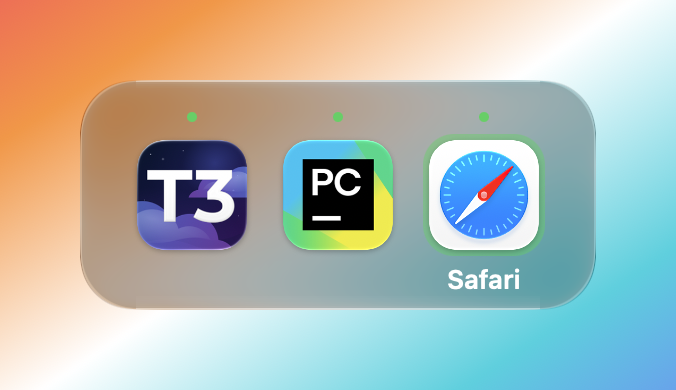
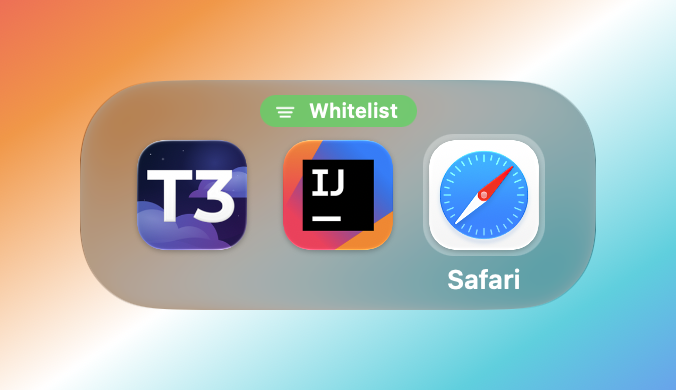
feat(app-switcher): let liquid glass draw the panel and mark the filter with a capsule

diff --git a/Sources/MacUtilities/Features/AppSwitcher/SwitcherPanel.swift b/Sources/MacUtilities/Features/AppSwitcher/SwitcherPanel.swift
@@ -54,13 +54,11 @@ final class SwitcherPanel: NSPanel {
         let layout = buildLayout()
 
         for (cell, app) in zip(cells, state.apps) {
-            cell.icon.alphaValue = getIconAlpha(app: app)
-            cell.dot.isHidden = !state.whitelisted.contains(app.bundleIdentifier ?? "")
+            cell.showStatus(app: app, whitelisted: isWhitelisted(app), isFiltered: state.isFiltered)
         }
 
         nameLabel.stringValue = getSelectedName()
         nameLabel.frame = getNameFrame(layout: layout)
-        highlight.layer?.backgroundColor = getHighlightColor().cgColor
 
         NSAnimationContext.runAnimationGroup { context in
             context.duration = 0.12
@@ -116,18 +114,17 @@ final class SwitcherPanel: NSPanel {
     private func buildContent() {
         let layout = buildLayout()
         let container = NSView(frame: NSRect(origin: .zero, size: layout.contentSize))
-        let rim = RimView(frame: container.bounds)
 
         // Icons draw as aqua like my-dock's tiles, so system images keep their light variants on the dark glass.
         container.appearance = NSAppearance(named: .aqua)
-        rim.autoresizingMask = [.width, .height]
         highlight = buildHighlight()
         nameLabel = buildNameLabel(text: getSelectedName())
         cells = buildCells(layout: layout)
 
-        container.addSubview(buildDimmingView(size: layout.contentSize))
-        container.addSubview(rim)
         container.addSubview(highlight)
+        if state.isFiltered {
+            container.addSubview(buildWhitelistBadge(size: layout.contentSize))
+        }
         for cell in cells {
             container.addSubview(cell)
         }
@@ -150,8 +147,9 @@ final class SwitcherPanel: NSPanel {
         var cells: [IconCellView] = []
 
         for (index, app) in state.apps.enumerated() {
-            let cell = IconCellView(app: app, whitelisted: state.whitelisted.contains(app.bundleIdentifier ?? ""))
+            let cell = IconCellView(app: app)
 
+            cell.showStatus(app: app, whitelisted: isWhitelisted(app), isFiltered: state.isFiltered)
             cell.index = index
             cell.frame = layout.cellFrames[index]
             cell.onClick = { [unowned self] index in self.onCellClicked(index) }
@@ -179,6 +177,10 @@ final class SwitcherPanel: NSPanel {
 
     private func buildLayout() -> SwitcherLayout {
         return SwitcherLayout(appCount: state.apps.count, iconsPerRow: state.iconsPerRow)
+    }
+
+    private func isWhitelisted(_ app: NSRunningApplication) -> Bool {
+        return state.whitelisted.contains(app.bundleIdentifier ?? "")
     }
 
     private func getSelectedName() -> String {
@@ -223,7 +225,7 @@ final class SwitcherPanel: NSPanel {
 
         highlight.wantsLayer = true
         highlight.layer?.cornerRadius = highlightCornerRadius
-        highlight.layer?.backgroundColor = getHighlightColor().cgColor
+        highlight.layer?.backgroundColor = highlightColor.cgColor
 
         return highlight
     }
@@ -233,23 +235,24 @@ final class SwitcherPanel: NSPanel {
 
         glass.style = .clear
         glass.cornerRadius = panelCornerRadius
+        glass.tintColor = panelTintColor
 
         return glass
     }
 
-    private func buildDimmingView(size: NSSize) -> NSView {
-        let dimming = NSView(frame: NSRect(origin: .zero, size: size).insetBy(dx: 1, dy: 1))
+    /// Centered in the band above the top row's icons, following the top edge as the panel resizes.
+    private func buildWhitelistBadge(size: NSSize) -> WhitelistBadgeView {
+        let badge = WhitelistBadgeView()
+        let badgeSize = badge.frame.size
 
-        dimming.wantsLayer = true
-        dimming.layer?.cornerRadius = panelCornerRadius - 1
-        dimming.layer?.backgroundColor = panelDimmingColor.cgColor
-        dimming.autoresizingMask = [.width, .height]
+        badge.frame = alignToPixels(NSRect(
+            x: (size.width - badgeSize.width) / 2,
+            y: size.height - verticalPadding - nameBandHeight / 2 - badgeSize.height / 2,
+            width: badgeSize.width,
+            height: badgeSize.height
+        ))
+        badge.autoresizingMask = [.minXMargin, .maxXMargin, .minYMargin]
 
-        return dimming
-    }
-
-    private func getHighlightColor() -> NSColor {
-        if state.filterEnabled { return filteredHighlightColor }
-        return highlightColor
+        return badge
     }
 }

diff --git a/Sources/MacUtilities/Features/AppSwitcher/SwitcherMetrics.swift b/Sources/MacUtilities/Features/AppSwitcher/SwitcherMetrics.swift
@@ -22,19 +22,20 @@ let dotCenterFromCellTop: CGFloat = nameBandHeight / 2 + 3
 let cellHeight: CGFloat = iconSize + 2 * (nameBandHeight + nameTopSpacing)
 let iconFrameInCell = NSRect(x: 0, y: nameBandHeight + nameTopSpacing, width: iconSize, height: iconSize)
 let dotFrameInCell = NSRect(x: (iconSize - dotSize) / 2, y: cellHeight - dotCenterFromCellTop - dotSize / 2, width: dotSize, height: dotSize)
-let panelCornerRadius: CGFloat = 28
-/// Clear glass keeps the backdrop's colour where regular glass washes it out; this pulls it down to the native
-/// switcher's body, roughly 0.63 * backdrop + 19 per channel. The 1pt rim is left undimmed.
-let panelDimmingColor = NSColor.black.withAlphaComponent(0.14)
-/// Measured off the native switcher, one row at a time from the edge inward. [row from the edge] -> white alpha
-let topRimAlphas: [CGFloat] = [0.34, 0.07, 0.03, 0.015]
-let bottomRimAlphas: [CGFloat] = [0.35, 0.09, 0.055, 0.045, 0.035, 0.03, 0.02]
 /// The native highlight hugs the icon's squircle with a 3pt margin and has no stroke.
 let highlightColor = NSColor.white.withAlphaComponent(0.30)
-let filteredHighlightColor = NSColor.systemGreen.withAlphaComponent(0.45)
 let highlightCornerRadius: CGFloat = 15.5
 /// The 68pt image has a ~6.5pt transparent margin around the squircle, and the highlight sits 3pt outside it.
 let highlightIconInset: CGFloat = 3.5
+/// Concentric with the highlight: its radius plus its distance from the side edges.
+let panelCornerRadius: CGFloat = highlightCornerRadius + horizontalPadding + highlightIconInset
+/// Clear glass keeps the backdrop's colour where regular glass washes it out; the tint pulls it down so the icons and the name stand out.
+let panelTintColor = NSColor.black.withAlphaComponent(0.14)
+/// The capsule saying only the whitelist is listed, centered in the band above the top row where the dots would be.
+let badgeHeight: CGFloat = 16
+let badgeHorizontalPadding: CGFloat = 7
+let badgeSymbolSpacing: CGFloat = 3
+let badgeColor = NSColor.systemGreen.withAlphaComponent(0.85)
 /// Hidden apps stay listed, dimmed like in the native switcher, so they can be brought back.
 let hiddenIconAlpha: CGFloat = 0.4
 /// After Cmd+Q the icon fades and shrinks out while the rest slide into place, over this long.

diff --git a/Sources/MacUtilities/Features/AppSwitcher/IconCellView.swift b/Sources/MacUtilities/Features/AppSwitcher/IconCellView.swift
@@ -1,4 +1,5 @@
 import AppKit
+import CoreImage
 
 /// A clickable icon cell: the whitelist dot above the icon, room for the selected app name below it, the icon centered between them.
 final class IconCellView: NSView {
@@ -7,23 +8,37 @@ final class IconCellView: NSView {
     var index = 0
     var onClick: (Int) -> Void = { _ in }
 
-    convenience init(app: NSRunningApplication, whitelisted: Bool) {
+    convenience init(app: NSRunningApplication) {
         self.init(frame: .zero)
 
         icon.image = app.icon ?? NSImage()
         icon.image?.size = NSSize(width: iconSize, height: iconSize)
         icon.imageScaling = .scaleProportionallyUpOrDown
-        icon.alphaValue = getIconAlpha(app: app)
+        icon.wantsLayer = true
         icon.frame = alignToPixels(iconFrameInCell)
 
         dot.wantsLayer = true
         dot.layer?.cornerRadius = dotSize / 2
         dot.layer?.backgroundColor = NSColor.systemGreen.cgColor
         dot.frame = alignToPixels(dotFrameInCell)
-        dot.isHidden = !whitelisted
 
         addSubview(icon)
         addSubview(dot)
+    }
+
+    /// Hidden apps dim. With the filter off a dot marks the whitelisted apps; with it on every app listed is whitelisted, so the ones taken
+    /// off the whitelist with Cmd+W turn gray instead.
+    func showStatus(app: NSRunningApplication, whitelisted: Bool, isFiltered: Bool) {
+        icon.alphaValue = app.isHidden ? hiddenIconAlpha : 1
+
+        if isFiltered {
+            dot.isHidden = true
+            icon.contentFilters = whitelisted ? [] : [buildGrayscaleFilter()]
+            return
+        }
+
+        dot.isHidden = !whitelisted
+        icon.contentFilters = []
     }
 
     /// Keeps the icon image view from swallowing the click.
@@ -41,9 +56,8 @@ final class IconCellView: NSView {
     override func mouseDown(with event: NSEvent) {
         onClick(index)
     }
-}
 
-func getIconAlpha(app: NSRunningApplication) -> CGFloat {
-    if app.isHidden { return hiddenIconAlpha }
-    return 1
+    private func buildGrayscaleFilter() -> CIFilter {
+        return CIFilter(name: "CIColorControls", parameters: [kCIInputSaturationKey: 0])!
+    }
 }

diff --git a/Sources/MacUtilities/Features/AppSwitcher/AppSwitcherFeature.swift b/Sources/MacUtilities/Features/AppSwitcher/AppSwitcherFeature.swift
@@ -14,6 +14,7 @@ final class AppSwitcherFeature: Feature {
     private var observers: [NSObjectProtocol] = []
 
     private var candidates: [NSRunningApplication] = []
+    private var isFiltered = false
     private var iconsPerRow = 1
     private var selectedIndex = 0
 
@@ -290,6 +291,7 @@ final class AppSwitcherFeature: Feature {
     /// The row width is fixed here, so the panel's layout and the row navigation agree even if the main screen changes later.
     private func loadCandidates() {
         candidates = getCandidates()
+        isFiltered = isListingWhitelistOnly()
         iconsPerRow = getIconsPerRow()
     }
 
@@ -325,6 +327,14 @@ final class AppSwitcherFeature: Feature {
         }
 
         return whitelistedApps
+    }
+
+    /// False in the fallback to every running app, when the filter is on but no whitelisted app is running.
+    private func isListingWhitelistOnly() -> Bool {
+        if !whitelistStore.isFilterEnabled { return false }
+
+        let whitelist = whitelistStore.getWhitelist()
+        return candidates.contains { whitelist.contains($0.bundleIdentifier!) }
     }
 
     /// Regular running apps, most recently activated first.
@@ -411,7 +421,7 @@ final class AppSwitcherFeature: Feature {
             apps: candidates,
             iconsPerRow: iconsPerRow,
             selectedIndex: selectedIndex,
-            filterEnabled: whitelistStore.isFilterEnabled,
+            isFiltered: isFiltered,
             whitelisted: whitelistStore.getWhitelist()
         )
     }

diff --git a/Sources/MacUtilities/Features/AppSwitcher/WhitelistBadgeView.swift b/Sources/MacUtilities/Features/AppSwitcher/WhitelistBadgeView.swift
@@ -1,0 +1,29 @@
+import AppKit
+
+/// A green capsule with a filter symbol and "Whitelist", sized to fit them.
+final class WhitelistBadgeView: NSView {
+    convenience init() {
+        self.init(frame: .zero)
+
+        let symbol = NSImageView(image: NSImage(systemSymbolName: "line.3.horizontal.decrease", accessibilityDescription: nil)!)
+        let label = NSTextField(labelWithString: "Whitelist")
+
+        symbol.symbolConfiguration = NSImage.SymbolConfiguration(pointSize: 9, weight: .bold)
+        symbol.contentTintColor = .white
+        label.font = .systemFont(ofSize: 10, weight: .semibold)
+        label.textColor = .white
+
+        let symbolSize = symbol.fittingSize
+        let labelSize = label.fittingSize
+        symbol.frame = NSRect(x: badgeHorizontalPadding, y: (badgeHeight - symbolSize.height) / 2, width: symbolSize.width, height: symbolSize.height)
+        label.frame = NSRect(x: symbol.frame.maxX + badgeSymbolSpacing, y: (badgeHeight - labelSize.height) / 2, width: labelSize.width, height: labelSize.height)
+        frame.size = NSSize(width: label.frame.maxX + badgeHorizontalPadding, height: badgeHeight)
+
+        wantsLayer = true
+        layer?.cornerRadius = badgeHeight / 2
+        layer?.backgroundColor = badgeColor.cgColor
+
+        addSubview(symbol)
+        addSubview(label)
+    }
+}

diff --git a/Sources/MacUtilities/Features/AppSwitcher/SwitcherState.swift b/Sources/MacUtilities/Features/AppSwitcher/SwitcherState.swift
@@ -4,6 +4,7 @@ struct SwitcherState {
     let apps: [NSRunningApplication]
     let iconsPerRow: Int
     let selectedIndex: Int
-    let filterEnabled: Bool
+    /// Only whitelisted apps are listed; false while the filter is on but none of them is running, so every app is.
+    let isFiltered: Bool
     let whitelisted: Set<String>
 }

diff --git a/docs/app-switcher/README.md b/docs/app-switcher/README.md
@@ -16,7 +16,7 @@ Filter off, every running app listed:
 
 ![all apps](screenshots/all-apps.png)
 
-Filter on, only the whitelist, green highlight:
+Filter on, only the whitelist, the Whitelist capsule above the icons:
 
 ![filtered](screenshots/filtered.png)
 
@@ -34,12 +34,18 @@ Filter on, only the whitelist, green highlight:
 - The highlight is a rounded square hugging the selected icon; the app's name sits
   under it, clamped to the panel edges and truncated rather than ever widening the
   panel.
-- The highlight is green when the filter is on and neutral when it is off.
-- A small green dot above an icon means the app is whitelisted.
+- The panel is Liquid Glass tinted dark, its corners concentric with the highlight's.
+- While only the whitelist is listed, a green "Whitelist" capsule sits above the top
+  row. When the filter is on but no whitelisted app is running, every app is listed
+  and the panel looks as with the filter off.
+- With the filter off, a small green dot above an icon means the app is whitelisted.
+  With only the whitelist listed there are no dots; an app taken off the whitelist
+  with Cmd+W turns gray instead.
 - Cmd+F while the switcher is open toggles the filter itself and re-filters the list
   on the spot, keeping the selected app selected when it survives.
 - Cmd+W while the switcher is open toggles the whitelist membership of the selected
-  app. The visible list is not re-filtered until the switcher closes.
+  app: its dot comes or goes, or with only the whitelist listed it turns gray or back.
+  The visible list is not re-filtered until the switcher closes.
 - Cmd+Q while the switcher is open quits the selected app; it leaves the list once it
   has actually quit, so an app asking for confirmation stays listed. Its icon fades and
   shrinks out while the others slide together and the panel shrinks around them; the
@@ -59,16 +65,17 @@ Filter on, only the whitelist, green highlight:
 
 ## Code
 
-`Sources/MacUtilities/Features/AppSwitcher/`: `AppSwitcherFeature` handles the tapped
-keys and keeps the candidates and the selection; `AppSwitcherSettingsView` is the
-settings tab, listing the apps `RunningRegularApps` keeps current; `SwitcherPanel`
-draws the glass panel from a `SwitcherState` using `SwitcherLayout`, `IconCellView`
-and `RimView`, with the sizes and colours in `SwitcherMetrics`; `WhitelistStore`
-keeps the filter switch and the whitelist in UserDefaults and publishes changes to
-the tab; `PanelWidthStore` keeps the dragged panel width, `ResizeHandleView` is the
-strip along each side edge that takes the drag and `BackgroundCursor.swift` lets the
-panel show the resize cursor while the app is inactive; `RecentAppsTracker` and
-`RunningApps` provide the most-recently-used order and the windowed apps.
+`Sources/MacUtilities/Features/AppSwitcher/`: `AppSwitcherFeature` handles the
+tapped keys and keeps the candidates and the selection; `AppSwitcherSettingsView` is
+the settings tab, listing the apps `RunningRegularApps` keeps current;
+`SwitcherPanel` draws the glass panel from a `SwitcherState` using `SwitcherLayout`,
+`IconCellView` and `WhitelistBadgeView`, with the sizes and colours in
+`SwitcherMetrics`; `WhitelistStore` keeps the filter switch and the whitelist in
+UserDefaults and publishes changes to the tab; `PanelWidthStore` keeps the dragged
+panel width, `ResizeHandleView` is the strip along each side edge that takes the
+drag and `BackgroundCursor.swift` lets the panel show the resize cursor while the
+app is inactive; `RecentAppsTracker` and `RunningApps` provide the
+most-recently-used order and the windowed apps.
 
 ## Dev
 
